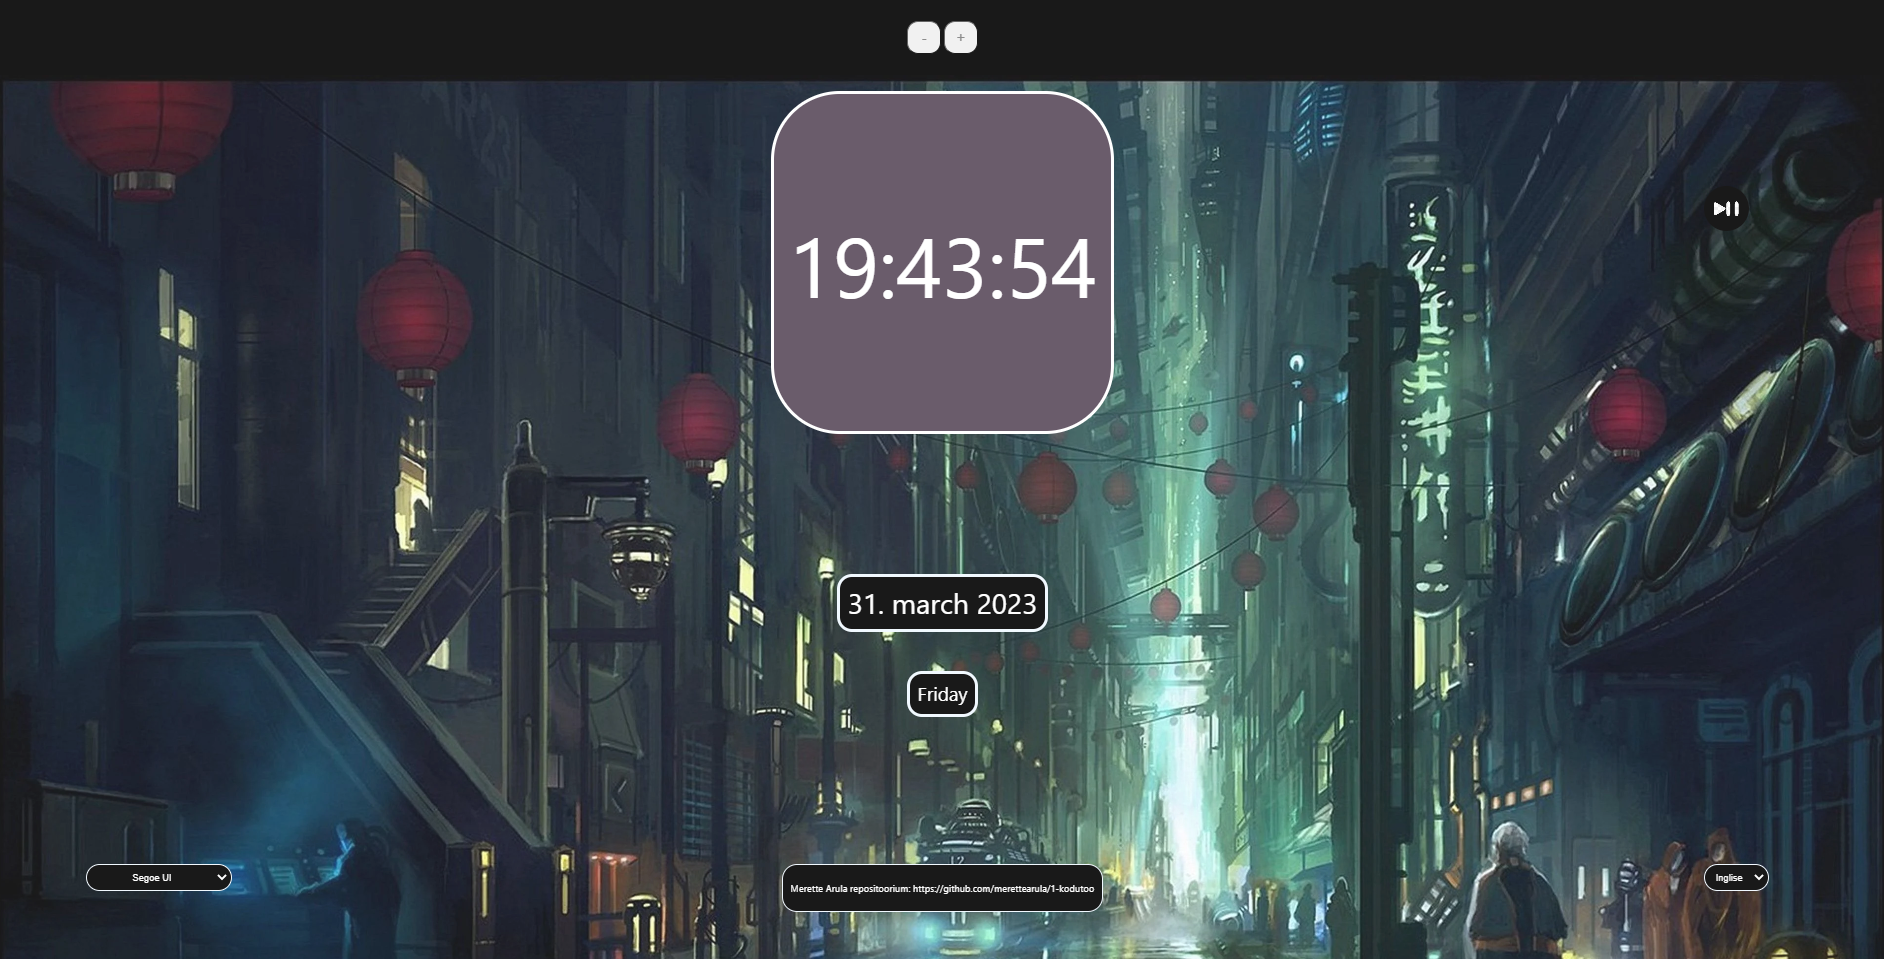
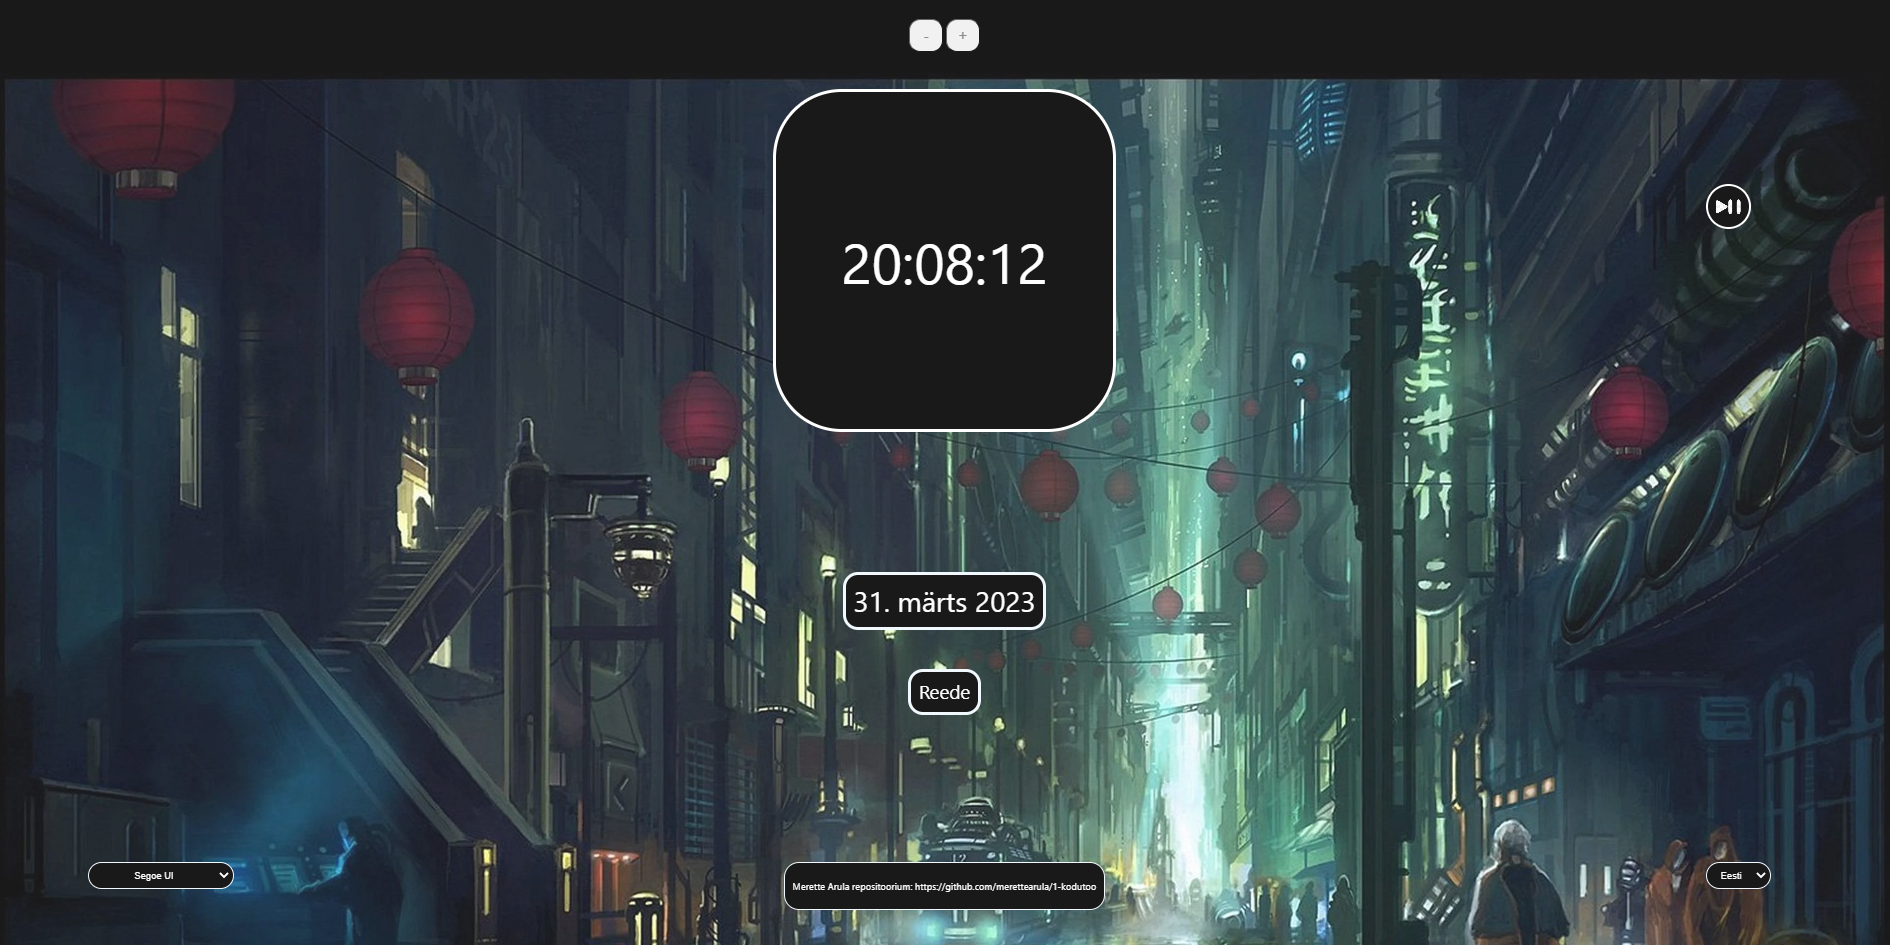
kodutoo_valmis

diff --git a/clock.css b/clock.css
@@ -26,11 +26,9 @@ body {
     border-radius: 20px;
     padding: 10px;
     display: absolute;
-    /*align-items: center;
-    justify-content: center;*/
     font-size: 1.5em;
-    margin-top: 5%; /* lisasime margin-topi */
-    text-align: center; /* lisasime teksti keskpaigutuse */
+    margin-top: 5%; 
+    text-align: center; 
     color: white;
     background-color: #000;
     position: absolute;
@@ -46,11 +44,9 @@ body {
     border-radius: 20px;
     padding: 10px;
     display: absolute;
-    /*align-items: center;
-    justify-content: center;*/
     font-size: 1em;
     margin-top: 5%; 
-    text-align: center; /* lisasime teksti keskpaigutuse */
+    text-align: center; 
     color: white;
     background-color: #000;
     position: absolute;
@@ -66,11 +62,9 @@ body {
     border-radius: 20px;
     padding: 10px;
     display: absolute;
-    /*align-items: center;
-    justify-content: center;*/
     font-size: 0.5em;
     margin-top: 5%; 
-    text-align: center; /* lisasime teksti keskpaigutuse */
+    text-align: center; 
     color: white;
     background-color: #000;
     position: absolute;
@@ -94,11 +88,9 @@ body {
     border-radius: 20px;
     padding: 10px;
     display: absolute;
-    /*align-items: center;
-    justify-content: center;*/
     font-size: 0.5em;
     margin-top: 5%; 
-    text-align: center; /* lisasime teksti keskpaigutuse */
+    text-align: center;
     color: white;
     background-color: #000;
     position: absolute;
@@ -115,11 +107,9 @@ body {
     border-radius: 20px;
     padding: 10px;
     display: absolute;
-    /*align-items: center;
-    justify-content: center;*/
     font-size: 0.5em;
     margin-top: 5%; 
-    text-align: center; /* lisasime teksti keskpaigutuse */
+    text-align: center;
     color: white;
     background-color: #000;
     position: absolute;
@@ -168,8 +158,8 @@ body {
     align-items: center;
   }
   
-  .play-button {
-    border: 3px solid black;
+.play-button {
+    border: 3px solid white;
     border-radius: 50%;
     display: absolute;
     /*align-items: center;
@@ -185,14 +175,12 @@ body {
     background-position: center;
     background-repeat: no-repeat;
 
-  }
-  
-  .pause-button {
-    border: 3px solid black;
+}
+
+.pause-button {
+    border: 3px solid white;
     border-radius: 50%;
     display: absolute;
-    /*align-items: center;
-    justify-content: center;*/
     margin-top: 5%; 
     position: absolute;
     top: 10%;
@@ -203,5 +191,5 @@ body {
     background-size: 60px;
     background-position: center;
     background-repeat: no-repeat;
-  }
+}
   

diff --git a/clock.js b/clock.js
@@ -15,7 +15,6 @@ document.getElementById('shorter').addEventListener("click", textSmaller);
 
 window.addEventListener('keydown', textSize);
 
-
 function textBigger(){
     timeFontSize = timeFontSize + 0.1;
     document.getElementById('time').style.fontSize = timeFontSize + "em";
@@ -106,7 +105,6 @@ fontFamilySelect.addEventListener("change", () => {
 
 const musicPlayer = document.getElementById("music-player");
 const playPauseButton = document.getElementById("play-pause-button");
-const seekBar = document.getElementById("seek-bar");
 
 function togglePlayPause() {
   if (musicPlayer.paused) {
@@ -120,13 +118,7 @@ function togglePlayPause() {
   }
 }
 
-function updateSeekBar() {
-  const percentPlayed = (musicPlayer.currentTime / musicPlayer.duration) * 100;
-  seekBar.value = percentPlayed;
-}
-
 playPauseButton.addEventListener("click", togglePlayPause);
-musicPlayer.addEventListener("timeupdate", updateSeekBar);
 
 upDateClock();
 upDateDate();
